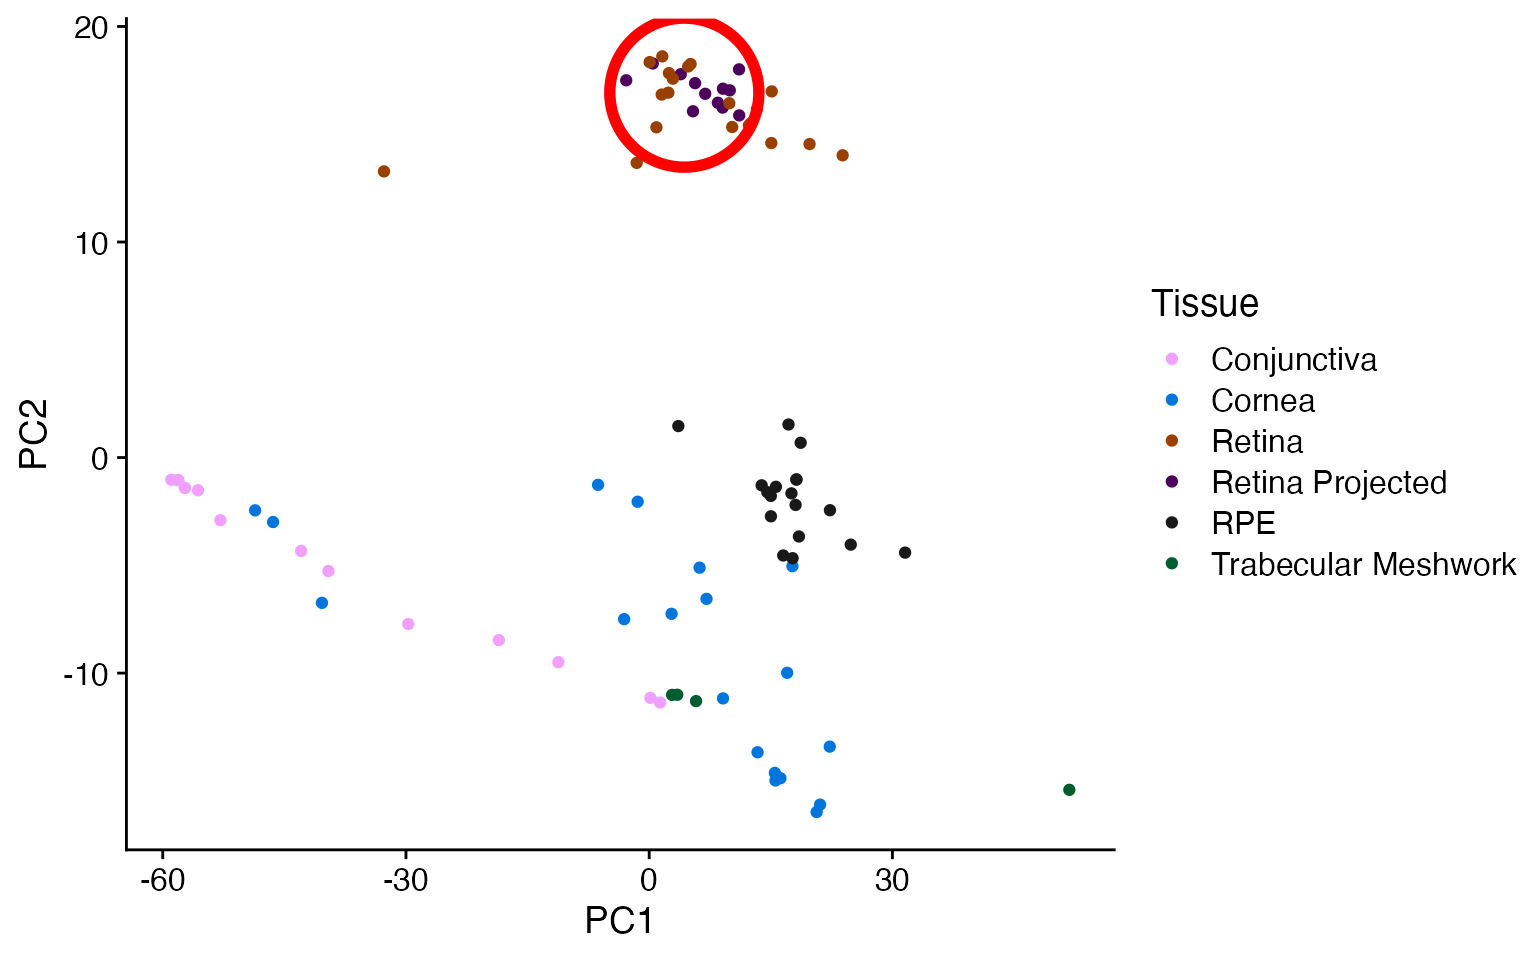
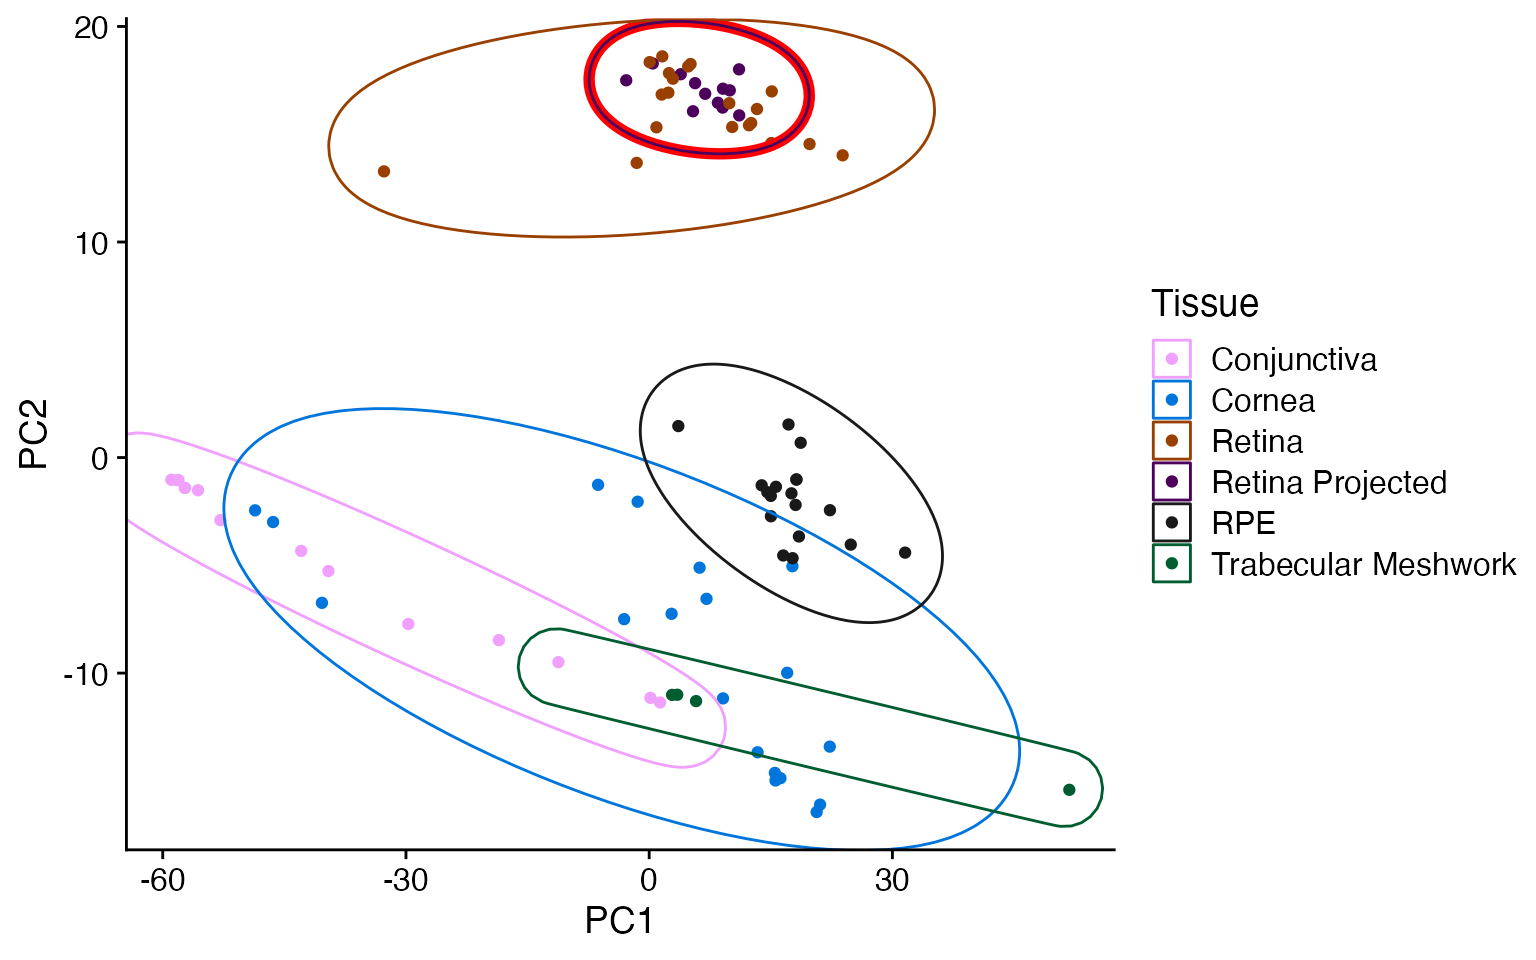
update vignette plots

diff --git a/docs/articles/real_data_testing.html b/docs/articles/real_data_testing.html
@@ -172,7 +172,9 @@ projection to work properly.</p>
 <span>  <span class="fu"><a href="https://ggplot2.tidyverse.org/reference/ggplot.html" class="external-link">ggplot</a></span><span class="op">(</span><span class="fu"><a href="https://ggplot2.tidyverse.org/reference/aes.html" class="external-link">aes</a></span><span class="op">(</span>x<span class="op">=</span><span class="va">PC1</span>,y<span class="op">=</span><span class="va">PC2</span>,color <span class="op">=</span> <span class="va">Tissue</span><span class="op">)</span><span class="op">)</span> <span class="op">+</span></span>
 <span>  <span class="fu"><a href="https://ggplot2.tidyverse.org/reference/geom_point.html" class="external-link">geom_point</a></span><span class="op">(</span><span class="op">)</span> <span class="op">+</span></span>
 <span>  <span class="fu"><a href="https://ggplot2.tidyverse.org/reference/scale_manual.html" class="external-link">scale_color_manual</a></span><span class="op">(</span>values <span class="op">=</span> <span class="fu">pals</span><span class="fu">::</span><span class="fu"><a href="https://kwstat.github.io/pals/reference/discrete.html" class="external-link">alphabet</a></span><span class="op">(</span>n<span class="op">=</span><span class="fl">12</span><span class="op">)</span> <span class="op"><a href="https://magrittr.tidyverse.org/reference/pipe.html" class="external-link">%&gt;%</a></span> <span class="fu"><a href="https://rdrr.io/r/base/unname.html" class="external-link">unname</a></span><span class="op">(</span><span class="op">)</span><span class="op">)</span> <span class="op">+</span></span>
-<span>  <span class="fu">ggforce</span><span class="fu">::</span><span class="fu"><a href="https://ggforce.data-imaginist.com/reference/geom_mark_circle.html" class="external-link">geom_mark_circle</a></span><span class="op">(</span>data <span class="op">=</span> <span class="va">data_plot</span> <span class="op"><a href="https://magrittr.tidyverse.org/reference/pipe.html" class="external-link">%&gt;%</a></span> <span class="fu"><a href="https://dplyr.tidyverse.org/reference/filter.html" class="external-link">filter</a></span><span class="op">(</span><span class="va">Data</span> <span class="op">==</span> <span class="st">'Projection'</span><span class="op">)</span>, color <span class="op">=</span> <span class="st">'red'</span>, expand <span class="op">=</span> <span class="fu"><a href="https://rdrr.io/r/grid/unit.html" class="external-link">unit</a></span><span class="op">(</span><span class="fl">2</span>,<span class="st">"mm"</span><span class="op">)</span>, size <span class="op">=</span> <span class="fl">2</span><span class="op">)</span> <span class="op">+</span></span>
+<span>  <span class="fu">ggforce</span><span class="fu">::</span><span class="fu"><a href="https://ggforce.data-imaginist.com/reference/geom_mark_ellipse.html" class="external-link">geom_mark_ellipse</a></span><span class="op">(</span>data <span class="op">=</span> <span class="va">data_plot</span> <span class="op"><a href="https://magrittr.tidyverse.org/reference/pipe.html" class="external-link">%&gt;%</a></span> <span class="fu"><a href="https://dplyr.tidyverse.org/reference/filter.html" class="external-link">filter</a></span><span class="op">(</span><span class="va">Data</span> <span class="op">==</span> <span class="st">'Projection'</span><span class="op">)</span>, color <span class="op">=</span> <span class="st">'red'</span>, size <span class="op">=</span> <span class="fl">2</span><span class="op">)</span> <span class="op">+</span></span>
+<span>  <span class="fu">ggforce</span><span class="fu">::</span><span class="fu"><a href="https://ggforce.data-imaginist.com/reference/geom_mark_ellipse.html" class="external-link">geom_mark_ellipse</a></span><span class="op">(</span><span class="op">)</span> <span class="op">+</span></span>
+<span>  </span>
 <span>  <span class="fu">cowplot</span><span class="fu">::</span><span class="fu"><a href="https://wilkelab.org/cowplot/reference/theme_cowplot.html" class="external-link">theme_cowplot</a></span><span class="op">(</span><span class="op">)</span></span></code></pre></div>
 <p><img src="real_data_testing_files/figure-html/metamoRph_eiad_pca-1.png" width="768"></p>
 </div>
@@ -204,7 +206,8 @@ their matching tissue type.</p>
 <span>  <span class="fu"><a href="https://ggplot2.tidyverse.org/reference/ggplot.html" class="external-link">ggplot</a></span><span class="op">(</span><span class="fu"><a href="https://ggplot2.tidyverse.org/reference/aes.html" class="external-link">aes</a></span><span class="op">(</span>x<span class="op">=</span><span class="va">PC1</span>,y<span class="op">=</span><span class="va">PC2</span>,color <span class="op">=</span> <span class="va">Tissue</span><span class="op">)</span><span class="op">)</span> <span class="op">+</span></span>
 <span>  <span class="fu"><a href="https://ggplot2.tidyverse.org/reference/geom_point.html" class="external-link">geom_point</a></span><span class="op">(</span><span class="op">)</span> <span class="op">+</span></span>
 <span>  <span class="fu"><a href="https://ggplot2.tidyverse.org/reference/scale_manual.html" class="external-link">scale_color_manual</a></span><span class="op">(</span>values <span class="op">=</span> <span class="fu">pals</span><span class="fu">::</span><span class="fu"><a href="https://kwstat.github.io/pals/reference/discrete.html" class="external-link">alphabet</a></span><span class="op">(</span>n<span class="op">=</span><span class="fl">12</span><span class="op">)</span> <span class="op"><a href="https://magrittr.tidyverse.org/reference/pipe.html" class="external-link">%&gt;%</a></span> <span class="fu"><a href="https://rdrr.io/r/base/unname.html" class="external-link">unname</a></span><span class="op">(</span><span class="op">)</span><span class="op">)</span> <span class="op">+</span></span>
-<span>  <span class="fu">ggforce</span><span class="fu">::</span><span class="fu"><a href="https://ggforce.data-imaginist.com/reference/geom_mark_circle.html" class="external-link">geom_mark_circle</a></span><span class="op">(</span>data <span class="op">=</span> <span class="va">data_plot</span> <span class="op"><a href="https://magrittr.tidyverse.org/reference/pipe.html" class="external-link">%&gt;%</a></span> <span class="fu"><a href="https://dplyr.tidyverse.org/reference/filter.html" class="external-link">filter</a></span><span class="op">(</span><span class="va">Data</span> <span class="op">==</span> <span class="st">'Projection'</span><span class="op">)</span>, color <span class="op">=</span> <span class="st">'red'</span>, expand <span class="op">=</span> <span class="fu"><a href="https://rdrr.io/r/grid/unit.html" class="external-link">unit</a></span><span class="op">(</span><span class="fl">2</span>,<span class="st">"mm"</span><span class="op">)</span>, size <span class="op">=</span> <span class="fl">2</span><span class="op">)</span> <span class="op">+</span></span>
+<span>  <span class="fu">ggforce</span><span class="fu">::</span><span class="fu"><a href="https://ggforce.data-imaginist.com/reference/geom_mark_ellipse.html" class="external-link">geom_mark_ellipse</a></span><span class="op">(</span>data <span class="op">=</span> <span class="va">data_plot</span> <span class="op"><a href="https://magrittr.tidyverse.org/reference/pipe.html" class="external-link">%&gt;%</a></span> <span class="fu"><a href="https://dplyr.tidyverse.org/reference/filter.html" class="external-link">filter</a></span><span class="op">(</span><span class="va">Data</span> <span class="op">==</span> <span class="st">'Projection'</span><span class="op">)</span>, color <span class="op">=</span> <span class="st">'red'</span>, size <span class="op">=</span> <span class="fl">2</span><span class="op">)</span> <span class="op">+</span></span>
+<span>    <span class="fu">ggforce</span><span class="fu">::</span><span class="fu"><a href="https://ggforce.data-imaginist.com/reference/geom_mark_ellipse.html" class="external-link">geom_mark_ellipse</a></span><span class="op">(</span><span class="op">)</span> <span class="op">+</span></span>
 <span>  <span class="fu">cowplot</span><span class="fu">::</span><span class="fu"><a href="https://wilkelab.org/cowplot/reference/theme_cowplot.html" class="external-link">theme_cowplot</a></span><span class="op">(</span><span class="op">)</span></span></code></pre></div>
 <p><img src="real_data_testing_files/figure-html/metamoRph_eiad_pca_with_sample_scaling-1.png" width="768"></p>
 </div>

diff --git a/docs/index.html b/docs/index.html
@@ -61,7 +61,8 @@
   <main id="main" class="col-md-9"><div class="section level1">
 <div class="page-header"><h1 id="metamorph">metamoRph<a class="anchor" aria-label="anchor" href="#metamorph"></a>
 </h1></div>
-<p>A framework (or “guardrails”) for projecting new data onto an reference PCA space. This can be a two step process where the user runs our <code>run_pca</code> function (which wraps <code>prcomp</code> and provides some sensible defaults and enhanced outputs. After <code>run_pca</code> the user can then use <code>metamoRph</code> to project new data onto the existing PCA.</p>
+<p>A framework for projecting new data onto an reference PCA space. This can be a two step process where the user runs our <code>run_pca</code> function (which wraps <code>prcomp</code> and provides some sensible defaults and enhanced outputs. After <code>run_pca</code> the user can then use <code>metamoRph</code> to project new data onto the existing PCA.</p>
+<p>We also provides two functions, <code>model_build</code> and <code>model_apply</code> to quickly transfer metadata onto new data using the shared PCA space.</p>
 </div>
 <div class="section level1">
 <h1 id="quick-start">Quick Start<a class="anchor" aria-label="anchor" href="#quick-start"></a>
@@ -92,14 +93,14 @@
 <span><span class="fu"><a href="https://rdrr.io/r/base/colnames.html" class="external-link">colnames</a></span><span class="op">(</span><span class="va">new_data</span><span class="op">)</span> <span class="op">&lt;-</span> <span class="va">genes</span></span>
 <span><span class="fu"><a href="https://rdrr.io/r/base/row.names.html" class="external-link">row.names</a></span><span class="op">(</span><span class="va">new_data</span><span class="op">)</span> <span class="op">&lt;-</span> <span class="fu"><a href="https://rdrr.io/r/base/c.html" class="external-link">c</a></span><span class="op">(</span><span class="st">"Cornea2"</span>,<span class="st">"Cornea3"</span>,<span class="st">"Cornea4"</span><span class="op">)</span></span>
 <span></span>
-<span></span>
 <span><span class="va">mm_pca</span> <span class="op">&lt;-</span> <span class="fu"><a href="reference/run_pca.html">run_pca</a></span><span class="op">(</span><span class="fu"><a href="https://rdrr.io/r/base/t.html" class="external-link">t</a></span><span class="op">(</span><span class="va">faux_mat</span><span class="op">)</span>, meta <span class="op">=</span> <span class="va">samples</span> <span class="op">|&gt;</span> <span class="fu"><a href="https://rdrr.io/r/base/data.frame.html" class="external-link">data.frame</a></span><span class="op">(</span><span class="op">)</span><span class="op">)</span></span>
 <span><span class="va">projected_pca</span> <span class="op">&lt;-</span> <span class="fu"><a href="reference/metamoRph.html">metamoRph</a></span><span class="op">(</span><span class="fu"><a href="https://rdrr.io/r/base/t.html" class="external-link">t</a></span><span class="op">(</span><span class="va">new_data</span><span class="op">)</span>, </span>
 <span>                               <span class="va">mm_pca</span><span class="op">$</span><span class="va">PCA</span><span class="op">$</span><span class="va">rotation</span>, </span>
 <span>                               center_scale <span class="op">=</span> <span class="va">mm_pca</span><span class="op">$</span><span class="va">center_scale</span><span class="op">)</span></span>
 <span></span>
+<span><span class="co"># example plot</span></span>
 <span><span class="co"># bind_rows(as_tibble(mm_pca$PCA$x, rownames = 'samples'),</span></span>
-<span><span class="co">#       data.frame((projected_pca)) |&gt;mutate(samples = 'Cornea')) |&gt;</span></span>
+<span><span class="co">#       as_tibble(projected_pca, rownames = 'Cornea')) |&gt;</span></span>
 <span><span class="co">#   mutate(samples = gsub('\\d','',samples)) |&gt;</span></span>
 <span><span class="co">#   ggplot(aes(x=PC1,y=PC2,color=samples)) + </span></span>
 <span><span class="co">#   geom_point() +</span></span>
@@ -119,15 +120,16 @@
 <span><span class="op">)</span></span>
 <span></span>
 <span><span class="co"># label_guesses</span></span></code></pre>
-<p>It is also possible to use a pre-existing prcomp object directly with <code>metamoRph</code>.</p>
 </div>
 <div class="section level2">
 <h2 id="existing-prcomp-object-projection-example-pseudocode-ish">Existing prcomp object projection example (pseudocode-ish)<a class="anchor" aria-label="anchor" href="#existing-prcomp-object-projection-example-pseudocode-ish"></a>
 </h2>
+<p>It is also possible to use a pre-existing prcomp object with <code>metamoRph</code>, skipping the <code>run_pca</code> step. You will have to ensure that you sample scale your <code>new_data</code> in the same manner that you used for your <code>prcomp</code> run (here we use <code>log2</code> - but replace with whatever scaling your have done. Maybe none?). Note how we have turned off the cpm and log1p scaling in the <code>metamoRph</code> function.</p>
 <pre><code><span><span class="kw"><a href="https://rdrr.io/r/base/library.html" class="external-link">library</a></span><span class="op">(</span><span class="va"><a href="https://davemcg.github.io/metamoRph/">metamoRph</a></span><span class="op">)</span></span>
-<span><span class="va">projected_pca</span> <span class="op">&lt;-</span> <span class="fu"><a href="reference/metamoRph.html">metamoRph</a></span><span class="op">(</span><span class="fu"><a href="https://rdrr.io/r/base/t.html" class="external-link">t</a></span><span class="op">(</span><span class="va">new_data</span><span class="op">)</span>, </span>
+<span><span class="va">projected_pca</span> <span class="op">&lt;-</span> <span class="fu"><a href="reference/metamoRph.html">metamoRph</a></span><span class="op">(</span><span class="fu"><a href="https://rdrr.io/r/base/t.html" class="external-link">t</a></span><span class="op">(</span><span class="fu"><a href="https://rdrr.io/r/base/Log.html" class="external-link">log2</a></span><span class="op">(</span><span class="va">new_data</span><span class="op">)</span><span class="op">)</span>, </span>
 <span>                               <span class="va">your_prcomp_object</span><span class="op">$</span><span class="va">PCA</span><span class="op">$</span><span class="va">rotation</span>, </span>
-<span>                               center_scale <span class="op">=</span> <span class="fu"><a href="reference/extract_prcomp_scaling.html">extract_prcomp_scaling</a></span><span class="op">(</span><span class="va">your_prcomp_object</span><span class="op">)</span><span class="op">)</span></span></code></pre>
+<span>                               center_scale <span class="op">=</span> <span class="fu"><a href="reference/extract_prcomp_scaling.html">extract_prcomp_scaling</a></span><span class="op">(</span><span class="va">your_prcomp_object</span><span class="op">)</span>,</span>
+<span>                               sample_cpm_scale <span class="op">=</span> <span class="cn">FALSE</span>, log1p <span class="op">=</span> <span class="cn">FALSE</span><span class="op">)</span></span></code></pre>
 </div>
 </div>
 
